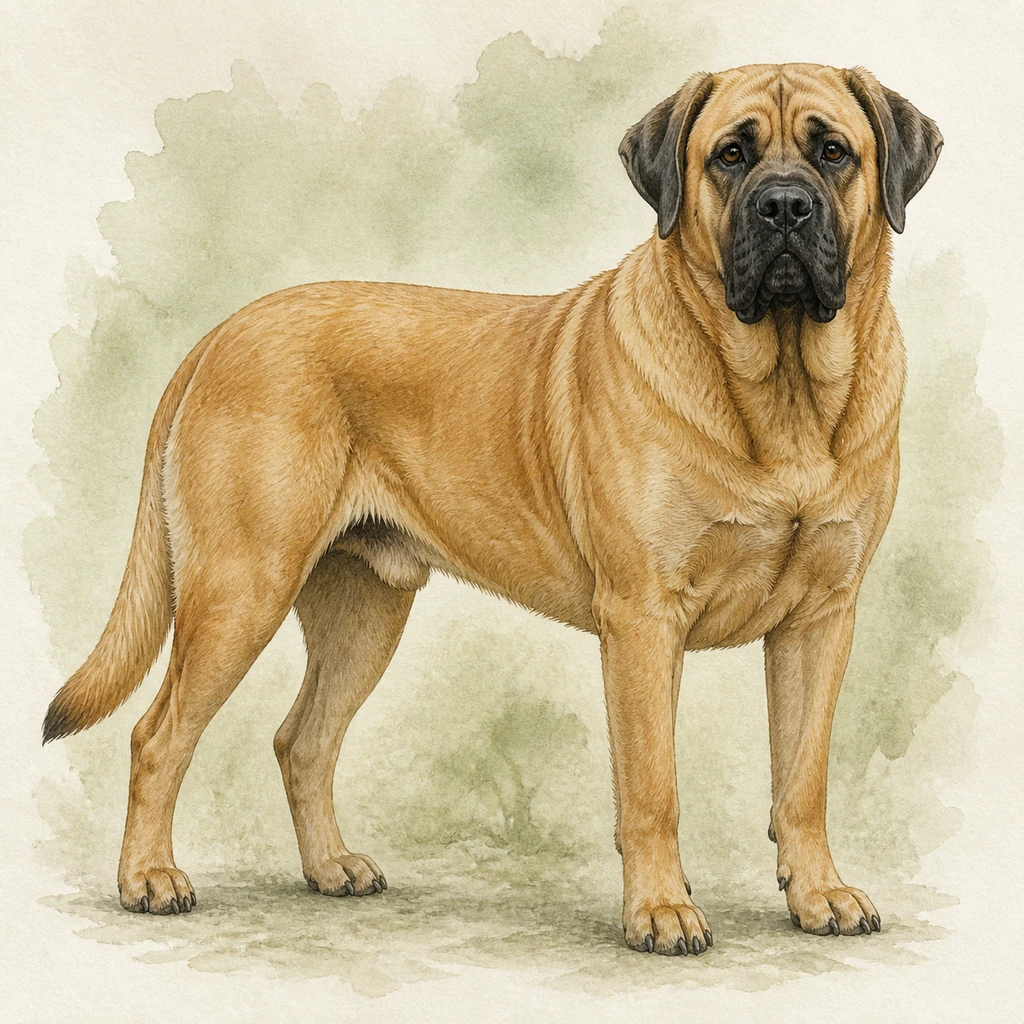
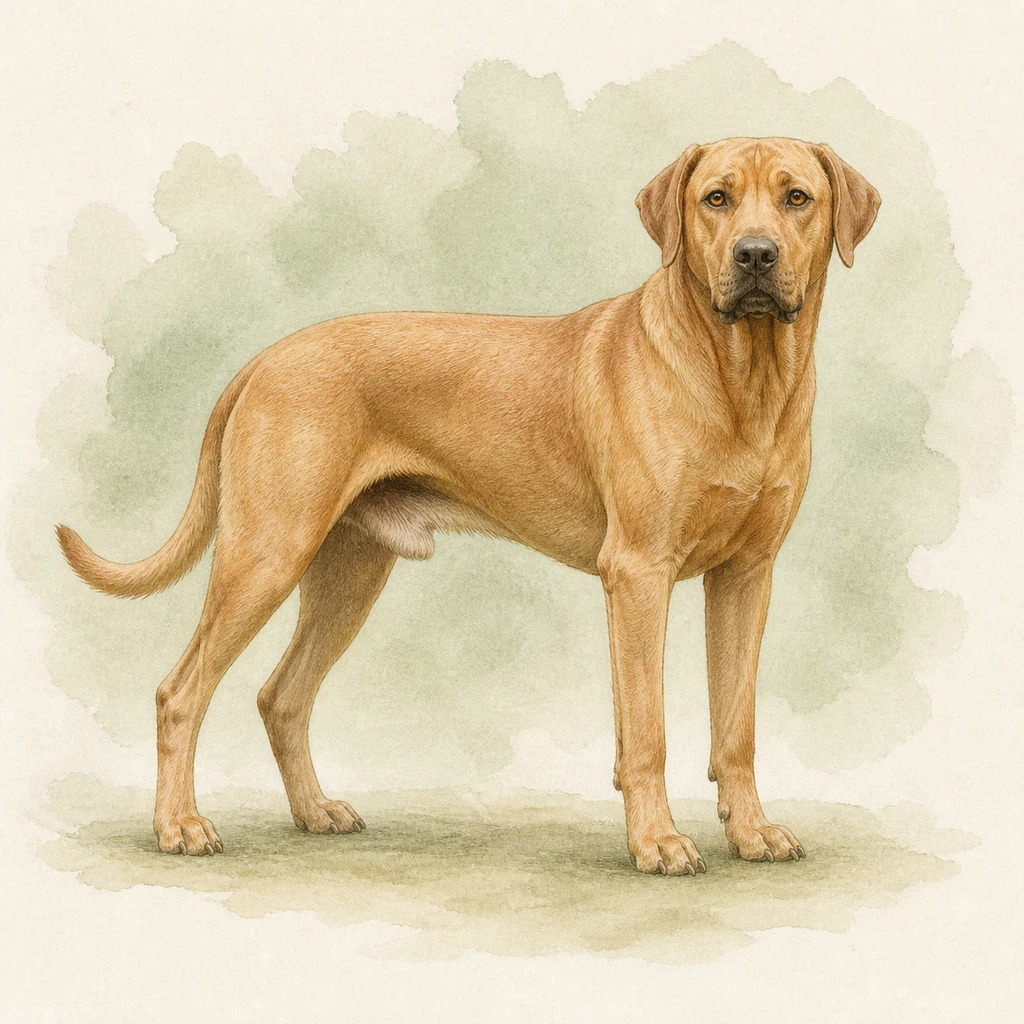
Refine five guardian breed illustrations

diff --git a/docs/project-status.md b/docs/project-status.md
@@ -7,6 +7,20 @@
 > 역할: 제품·디자인·코드·콘텐츠·검증 상태를 빠르게 파악하기 위한 살아 있는 문서
 > 갱신 책임: 중요한 변경을 수행한 사람 또는 AI가 같은 변경 안에서 이 문서를 함께 수정한다.
 
+### 2026-09-01 브로홀머·루마니안 카르파티안·트란스몬타노 대표 이미지 재교정
+
+- 사용자가 직접 고른 성견 참고 사진을 추가 기준으로 삼아 세 견종의 실제 시각 인상을 다시 교정했다. 휴대전화 화면과 사진 배경은 복제하지 않고 개체의 체형·머리·피모·무늬만 기존 Dog Atlas 수채화 형식으로 옮겼다.
+- 브로홀머는 붉은 황갈색 단모, 검은 마스크가 거의 없는 깨끗한 얼굴, 비교적 작은 머리와 긴 다리, 날렵한 직사각 몸, 뒤로 완만하게 올라가는 긴 꼬리를 반영했다. 둔중한 불마스티프형 머리와 흰 가슴 무늬는 제거했다.
+- 루마니안 카르파티안 셰퍼드 도그는 참고 개체들의 풍성하고 거친 중장모, 검은 얼굴과 등, 흰 얼굴선·목·가슴·하체, 높게 든 풍성한 꼬리를 반영해 이전의 매끈하고 균일한 늑대회색 표현을 교체했다.
+- 트란스몬타노 마스티프는 참고 사진에서 반복되는 흰 바탕의 크고 선명한 검은 판무늬, 검은 귀와 얼굴·흰 블레이즈, 거친 중장모와 위로 굽은 풍성한 꼬리를 적용했다. 이전의 매끈한 흰색·황갈색 개체 표현은 제거했다.
+- 세 자산만 1024×1024 WebP로 교체했으며 견종 발견 카드와 상세 상단 첫 이미지에 함께 반영된다. 다른 견종과 상세 이야기 이미지는 유지했다.
+
+### 2026-09-01 프레사 카나리오·라페이루 두 알렌테주 대표 이미지 재교정
+
+- 프레사 카나리오는 어두운 바르디노 브린들·검은 마스크·길고 민첩한 몰로서 체형을 유지하면서, 대표 사진에서 익숙한 위로 솟은 뾰족한 귀 실루엣으로 교정했다.
+- 라페이루 두 알렌테주는 FCI 표준과 포르투갈 성견 자료를 다시 대조해 기존의 날렵하고 배가 올라간 체형을 폐기했다. 몸통이 체고보다 조금 길고 매우 두터우며, 가슴이 팔꿈치까지 내려오고 배선이 거의 수평인 묵직한 보호견 체형으로 바꿨다. 모색도 대표성이 높은 황갈색·검은 마스크·흰 가슴과 발 조합으로 교체했다.
+- 두 자산만 1024×1024 WebP로 다시 저장했으며 발견 카드와 상세 상단 첫 이미지에 함께 반영된다. 다른 대표 이미지와 이야기 이미지는 유지했다.
+
 ### 2026-09-01 초대형견 공용 대표 이미지 15종 재제작
 
 - 어제 승인한 초대형견 대표 이미지 12종은 유지하고, 아직 교정하지 않았던 그레이터 스위스 마운틴 독·라페이루 두 알렌테주·루마니안 레이븐 셰퍼드·루마니안 미오리틱 셰퍼드·루마니안 부코비나 셰퍼드·마렘마 앤 아브루초 셰퍼드·마케도니안 셰퍼드 도그 카라만·몽골리안 방카르·불마스티프·브로홀머·블랙 러시안 테리어·코몬도르·쿠바츠·트란스몬타노 마스티프·프레사 카나리오의 공용 대표 이미지 15장을 다시 제작했다.
